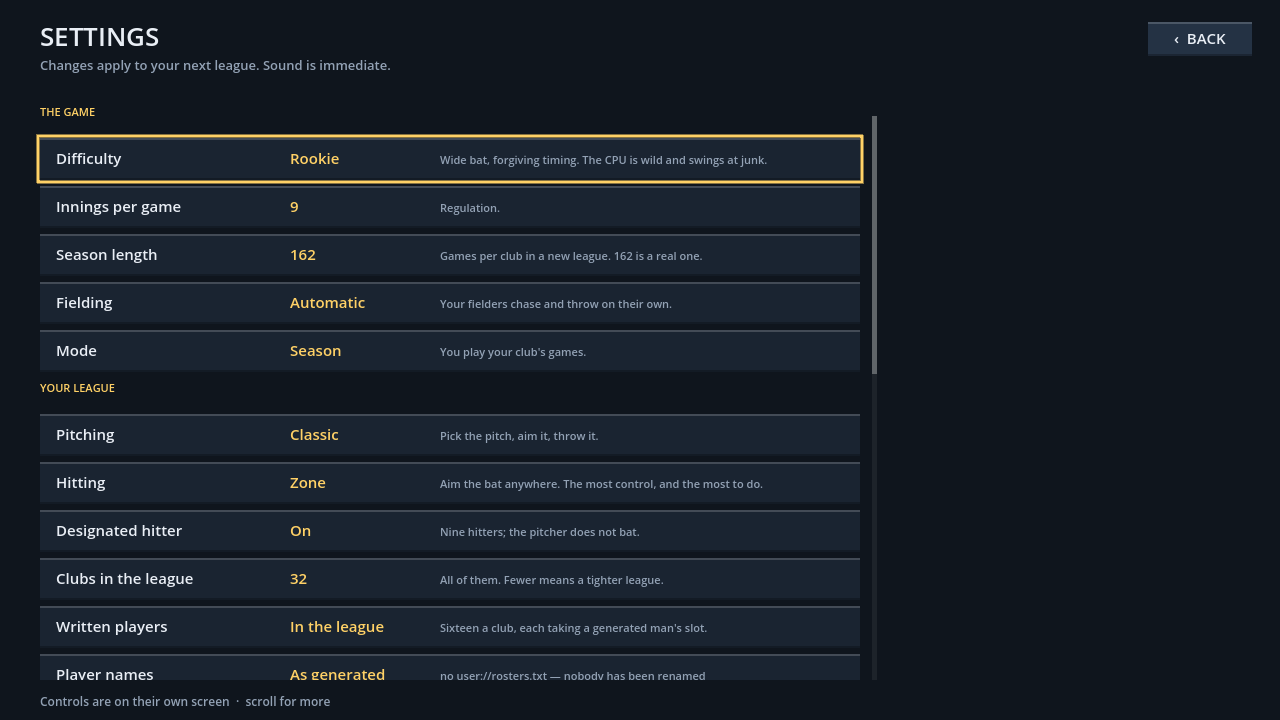
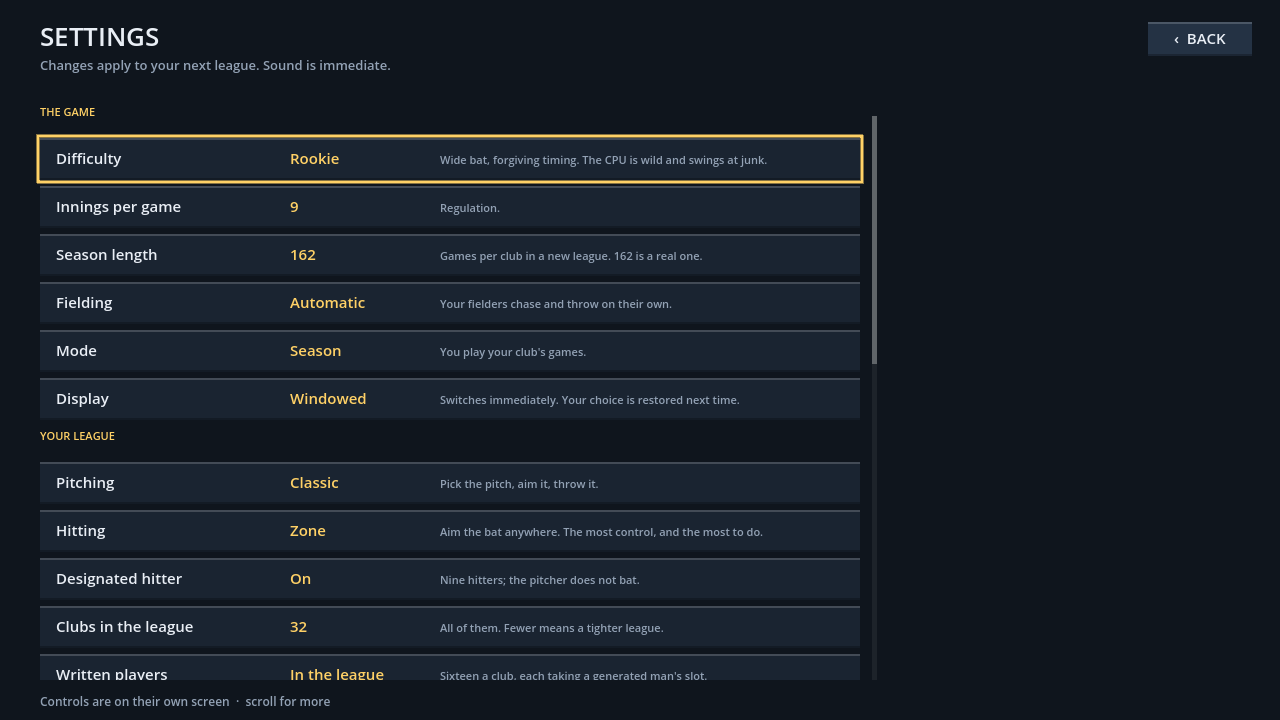
Add persistent desktop display mode

diff --git a/Scripts/Core/Difficulty.cs b/Scripts/Core/Difficulty.cs
@@ -143,14 +143,41 @@ public enum PitchingStyle
 public static class Settings
 {
     private const string Path = "user://settings.cfg";
+
     public static bool Accessibility(string key, bool fallback = false)
     {
         var cfg = new ConfigFile();
-        return cfg.Load(Path) == Error.Ok ? (bool)cfg.GetValue("accessibility", key, fallback) : fallback;
+        return cfg.Load(Path) == Error.Ok
+            ? (bool)cfg.GetValue("accessibility", key, fallback) : fallback;
     }
+
     public static void SaveAccessibility(string key, bool value)
     {
-        var cfg = new ConfigFile(); cfg.Load(Path); cfg.SetValue("accessibility", key, value); cfg.Save(Path);
+        var cfg = new ConfigFile(); cfg.Load(Path);
+        cfg.SetValue("accessibility", key, value); cfg.Save(Path);
+    }
+
+    public static bool LoadFullscreen()
+    {
+        var cfg = new ConfigFile();
+        return cfg.Load(Path) == Error.Ok && (bool)cfg.GetValue("display", "fullscreen", false);
+    }
+
+    public static void SaveFullscreen(bool on)
+    {
+        var cfg = new ConfigFile();
+        cfg.Load(Path);
+        cfg.SetValue("display", "fullscreen", on);
+        cfg.Save(Path);
+        ApplyDisplayMode(on);
+    }
+
+    public static void ApplyDisplayMode(bool? fullscreen = null)
+    {
+        if (OS.HasFeature("mobile") || DisplayServer.GetName() == "headless") return;
+        DisplayServer.WindowSetMode((fullscreen ?? LoadFullscreen())
+            ? DisplayServer.WindowMode.Fullscreen
+            : DisplayServer.WindowMode.Windowed);
     }
 
     public static Difficulty LoadDifficulty()

diff --git a/Scripts/Core/Game.cs b/Scripts/Core/Game.cs
@@ -55,6 +55,7 @@ public partial class Game : Node
 
     /// <summary>Set by the netplay self-test: the next game plays itself.</summary>
     public bool AutoPlayNextGame;
+    /// <summary>A consequence-free exhibition with contextual lessons layered over live play.</summary>
     public bool TutorialMode;
     public bool LargeText { get; set; }
     public bool HighContrast { get; set; }
@@ -353,6 +354,7 @@ public partial class Game : Node
     private static bool IsVerificationRun()
     {
         var args = OS.GetCmdlineUserArgs();
+        if (args.Length == 0) Settings.ApplyDisplayMode();
 
         foreach (string flag in HarnessFlags)
             if (System.Array.IndexOf(args, flag) >= 0) return true;
@@ -377,12 +379,6 @@ public partial class Game : Node
         Vibration = Settings.Accessibility("vibration", true);
 
         var args = OS.GetCmdlineUserArgs();
-
-        // A normal launch resumes the remembered league without making the player find a load
-        // button every time. Command-line runs are tools, audits, screenshots or network tests
-        // and must keep control of their own destination.
-
-
 
         // `--fast N` runs the clock N times faster, for unattended verification runs.
         int fast = System.Array.IndexOf(args, "--fast");

diff --git a/Scripts/UI/SettingsScreen.cs b/Scripts/UI/SettingsScreen.cs
@@ -105,6 +105,14 @@ public partial class SettingsScreen : Control
             g.ManagerOnly ? "You manage; games are simulated." : "You play your club's games.", ref y,
             () => g.ManagerOnly = !g.ManagerOnly);
 
+        if (!OS.HasFeature("mobile"))
+        {
+            bool fullscreen = Settings.LoadFullscreen();
+            Row("Display", fullscreen ? "Fullscreen" : "Windowed",
+                "Switches immediately. Your choice is restored next time.", ref y,
+                () => Settings.SaveFullscreen(!fullscreen));
+        }
+
         // --- Your league ---
         y += 14f;
         Section("YOUR LEAGUE", ref y);
